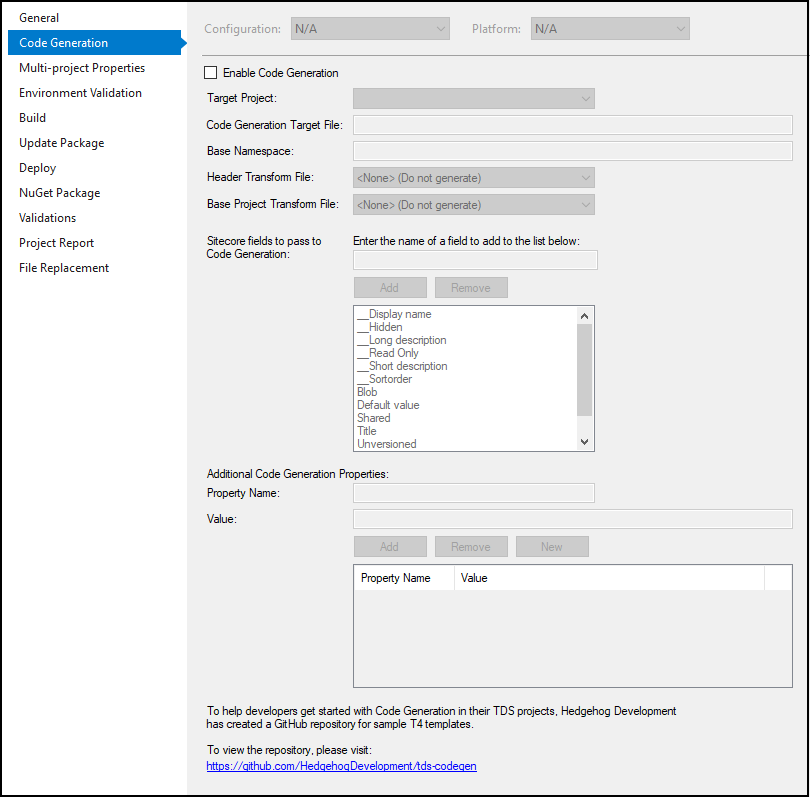
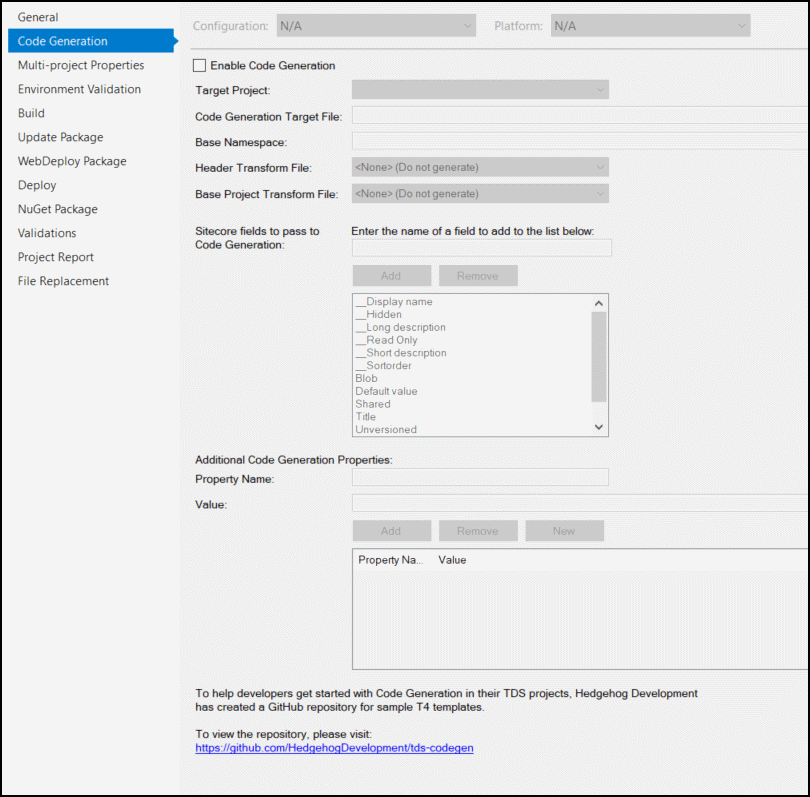
Update documentation for 5.8

Changed region(s): [[0.0, 0.0, 0.9568, 0.7528], [0.2469, 0.813, 0.8642, 0.9937], [0.9877, 0.0, 1.0, 1.0]]

diff --git a/_includes/tdschapters.html b/_includes/tdschapters.html
@@ -60,7 +60,8 @@
             <li><a href="./chapter4.html#the-sitecore-databases">The Sitecore databases</a></li>
             <li><a href="./chapter4.html#working-outside-the-web-root">Working outside the web root</a></li>
             <li><a href="./chapter4.html#solution-structure">Solution Structure</a></li>
-            <li><a href="./chapter4.html#tds-classic-project-property-pages">TDS Classic project property pages</a>
+            <li>
+                <a href="./chapter4.html#tds-classic-project-property-pages">TDS Classic project property pages</a>
                 <ul>
                     <li><a href="./chapter4.html#general">General</a></li>
                     <li><a href="./chapter4.html#code-generation">Code Generation</a></li>
@@ -68,6 +69,7 @@
                     <li><a href="./chapter4.html#environment-validation">Environment Validation</a></li>
                     <li><a href="./chapter4.html#build">Build</a></li>
                     <li><a href="./chapter4.html#update-package">Update Package</a></li>
+                    <li><a href="./chapter4.html#webdeploy-package">WebDeploy Package</a></li>
                     <li><a href="./chapter4.html#deploy">Deploy</a></li>
                     <li><a href="./chapter4.html#nuget-package">NuGet Package</a></li>
                     <li><a href="./chapter4.html#validations">Validations</a></li>
@@ -77,17 +79,20 @@
             </li>
             <li><a href="./chapter4.html#deployment-properties">Deployment Properties</a></li>
             <li><a href="./chapter4.html#visual-studio-property-window">Visual Studio Property Window</a></li>
-            <li><a href="./chapter4.html#tds-classic-options-window">TDS Classic Options Window</a>
+            <li>
+                <a href="./chapter4.html#tds-classic-options-window">TDS Classic Options Window</a>
                 <ul>
                     <li><a href="./chapter4.html#general-options">General Options</a></li>
                     <li><a href="./chapter4.html#sync-window">Sync Window</a></li>
                     <li><a href="./chapter4.html#sync-window-languages">Sync Window Languages</a></li>
                 </ul>
             </li>
-            <li><a href="./chapter4.html#deployment-property-manager">Deployment Property Manager</a>
+            <li>
+                <a href="./chapter4.html#deployment-property-manager">Deployment Property Manager</a>
             </li>
             <li><a href="./chapter4.html#adding-sitecore-items-to-a-project">Adding Sitecore items to a project</a></li>
-            <li><a href="./chapter4.html#updating-sitecore-items-in-a-project">Updating Sitecore Items in a project</a>
+            <li>
+                <a href="./chapter4.html#updating-sitecore-items-in-a-project">Updating Sitecore Items in a project</a>
                 <ul>
                     <li><a href="./chapter4.html#the-sync-window">The Sync Window</a></li>
                     <li>
@@ -106,7 +111,8 @@
             <li>
                 <a href="./chapter4.html#quick-push-items">Quick Push Items</a>
             </li>
-            <li><a href="./chapter4.html#sitecore-item-merge">Sitecore Item Merge</a>
+            <li>
+                <a href="./chapter4.html#sitecore-item-merge">Sitecore Item Merge</a>
                 <ul>
                     <li><a href="./chapter4.html#setting-up-sitecore-item-merge-for-source-control-providers">Setting up Sitecore Item Merge for Source Control Providers</a></li>
                     <li><a href="./chapter4.html#configuring-sitecore-item-merge-for-git-using-script">Configuring Sitecore Item Merge for Git using script</a></li>
@@ -137,7 +143,7 @@
         <a href="./chapter6.html"><strong>Chapter 6 – Code Generation</strong></a>
         <ul>
             <li>
-                <a href="./chapter6.html#data-models">vData Models</a>
+                <a href="./chapter6.html#data-models">Data Models</a>
                 <ul>
                     <li><a href="./chapter6.html#projectheader">ProjectHeader</a></li>
                     <li><a href="./chapter6.html#sitecoreitem">SitecoreItem</a></li>
@@ -162,6 +168,18 @@
             </li>
             <li><a href="./chapter6.html#item-level-properties">Item Level Properties</a></li>
             <li><a href="./chapter6.html#namespaces">Namespaces</a></li>
+        </ul>
+    </li>
+    <li>
+        <a href="./chapter7.html"><strong>Chapter 7 – Web Deploy files</strong></a>
+        <ul>
+            <li><a href="./chapter7.html#deployment-process">Deployment process</a></li>
+            <li><a href="./chapter7.html#building-webdeploy-packages">Building WebDeploy packages</a></li>
+            <li><a href="./chapter7.html#deployment-powershell-script">Deployment Powershell Script</a></li>
+            <li><a href="./chapter7.html#paas-deployment-to-azure">PaaS deployment to Azure</a></li>
+            <li><a href="./chapter7.html#paas-deployment-using-a-vso-release-pipeline">PaaS deployment using a VSO Release Pipeline</a></li>
+            <li><a href="./chapter7.html#iaas-or-standalone-deployments">IaaS or Standalone deployments</a></li>
+            <li><a href="./chapter7.html#"></a></li>
         </ul>
     </li>
 </ul>
